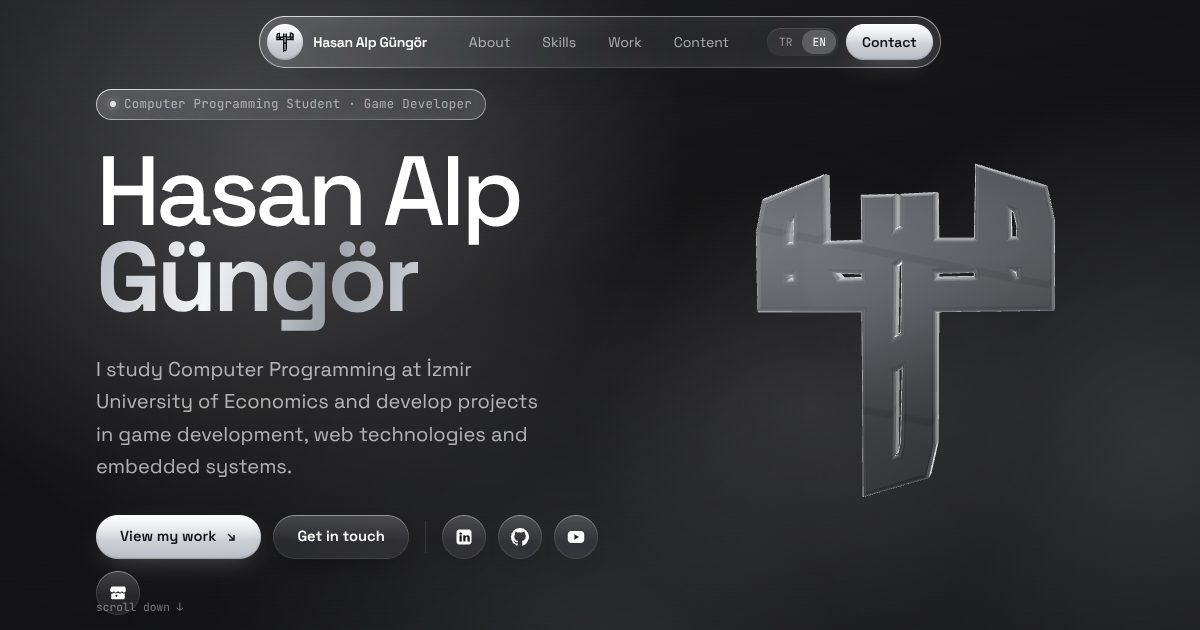
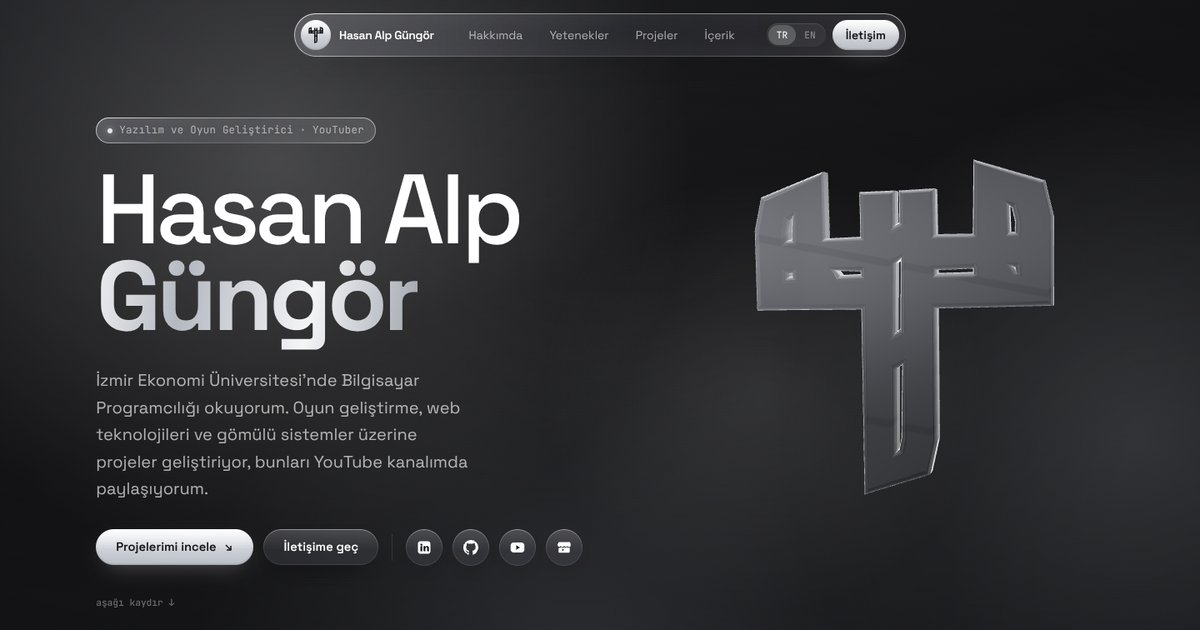
Aramalarda YouTuber olarak görünme ve Türkçe dizinleme
- Başlık, açıklama ve yapısal veriye YouTuber eklendi
- Giriş bölümünde YouTube kanalından bahsediliyor
- Arama motoru tarayıcıları her zaman Türkçe sayfayı görüyor
- Paylaşım görseli Türkçe olarak yenilendi

diff --git a/components/Hero.tsx b/components/Hero.tsx
@@ -48,7 +48,7 @@ export default function Hero() {
         <div className="lg:max-w-[52%]">
           <p className="hero-in ui-label ui-label--plain mb-5 md:mb-7 glass inline-flex items-center gap-2 rounded-full px-3.5 py-1.5">
             <span className="w-1.5 h-1.5 rounded-full bg-zinc-200 shadow-[0_0_8px_rgba(255,255,255,0.7)]" />
-            {t({ tr: 'Bilgisayar Programcılığı Öğrencisi · Oyun Geliştirici', en: 'Computer Programming Student · Game Developer' })}
+            {t({ tr: 'Yazılım ve Oyun Geliştirici · YouTuber', en: 'Software & Game Developer · YouTuber' })}
           </p>
 
           <h1 className="hero-in hero-in--2 ui-title text-[17vw] sm:text-[13vw] lg:text-[clamp(4.5rem,8.2vw,8.8rem)] !leading-[0.88]">
@@ -59,8 +59,8 @@ export default function Hero() {
 
           <p className="hero-in hero-in--3 mt-6 md:mt-8 text-base md:text-xl text-white/65 max-w-md leading-relaxed">
             {t({
-              tr: 'İzmir Ekonomi Üniversitesi\'nde Bilgisayar Programcılığı okuyorum. Oyun geliştirme, web teknolojileri ve gömülü sistemler üzerine projeler geliştiriyorum.',
-              en: "I study Computer Programming at İzmir University of Economics and develop projects in game development, web technologies and embedded systems.",
+              tr: 'İzmir Ekonomi Üniversitesi\'nde Bilgisayar Programcılığı okuyorum. Oyun geliştirme, web teknolojileri ve gömülü sistemler üzerine projeler geliştiriyor, bunları YouTube kanalımda paylaşıyorum.',
+              en: "I study Computer Programming at İzmir University of Economics and build projects in game development, web technologies and embedded systems, which I share on my YouTube channel.",
             })}
           </p>
 

diff --git a/app/layout.tsx b/app/layout.tsx
@@ -5,9 +5,9 @@ import '@fontsource-variable/space-grotesk';
 import '@fontsource-variable/jetbrains-mono';
 import { PERSON_JSON_LD, PERSON_NAME, SITE_URL } from '@/lib/site';
 
-const title = 'Hasan Alp Güngör | Yazılım ve Oyun Geliştirici';
+const title = 'Hasan Alp Güngör | Yazılım ve Oyun Geliştirici, YouTuber';
 const description =
-  "Hasan Alp Güngör: İzmir Ekonomi Üniversitesi Bilgisayar Programcılığı öğrencisi, oyun geliştirici ve yazılım meraklısı. Oyunlar, 3D web siteleri ve ESP32 / Arduino donanım projeleri.";
+  "Hasan Alp Güngör: yazılım ve oyun geliştirici, YouTuber. İzmir Ekonomi Üniversitesi Bilgisayar Programcılığı öğrencisi. Oyunlar, 3D web siteleri ve ESP32 / Arduino donanım projelerini YouTube'da paylaşıyor.";
 
 export const metadata: Metadata = {
   metadataBase: new URL(SITE_URL),
@@ -24,6 +24,8 @@ export const metadata: Metadata = {
     'portfolio',
     'oyun geliştirici',
     'game developer',
+    'YouTuber',
+    'Hasan Alp Güngör YouTube',
     'yazılım geliştirici',
     'İzmir Ekonomi Üniversitesi',
     'Bilgisayar Programcılığı',

diff --git a/lib/site.ts b/lib/site.ts
@@ -16,9 +16,9 @@ export const PERSON_JSON_LD = {
   alternateName: ['Hasan Alp Gungor', 'Hasan Güngör', 'manyaksisko35'],
   url: SITE_URL,
   image: `${SITE_URL}/opengraph-image.jpg`,
-  jobTitle: 'Computer Programming Student · Game Developer · Software Enthusiast',
+  jobTitle: ['Yazılım Geliştirici', 'Oyun Geliştirici', 'YouTuber'],
   description:
-    'Computer Programming student at İzmir University of Economics who builds games, interactive 3D websites and ESP32 / Arduino hardware projects.',
+    'Yazılım ve oyun geliştirici, YouTuber. İzmir Ekonomi Üniversitesi Bilgisayar Programcılığı öğrencisi; oyunlar, 3D web siteleri ve ESP32 / Arduino donanım projeleri geliştirip YouTube kanalında paylaşıyor.',
   affiliation: {
     '@type': 'CollegeOrUniversity',
     name: 'İzmir Ekonomi Üniversitesi',
@@ -29,6 +29,8 @@ export const PERSON_JSON_LD = {
   knowsAbout: [
     'Software Development',
     'Game Development',
+    'YouTube',
+    'Content Creation',
     'Web Development',
     'TypeScript',
     'React',

diff --git a/lib/i18n.ts b/lib/i18n.ts
@@ -17,7 +17,10 @@ function read(): Lang {
   } catch {
     /* storage blocked */
   }
-  current = saved === 'tr' || saved === 'en' ? saved : navigator.language.toLowerCase().startsWith('tr') ? 'tr' : 'en';
+  // Crawlers browse in English; keep them on the Turkish page the title and description describe.
+  const crawler = /bot|crawl|spider|slurp|facebookexternalhit|embedly|preview/i.test(navigator.userAgent);
+  current =
+    saved === 'tr' || saved === 'en' ? saved : crawler || navigator.language.toLowerCase().startsWith('tr') ? 'tr' : 'en';
   document.documentElement.lang = current;
   return current;
 }
